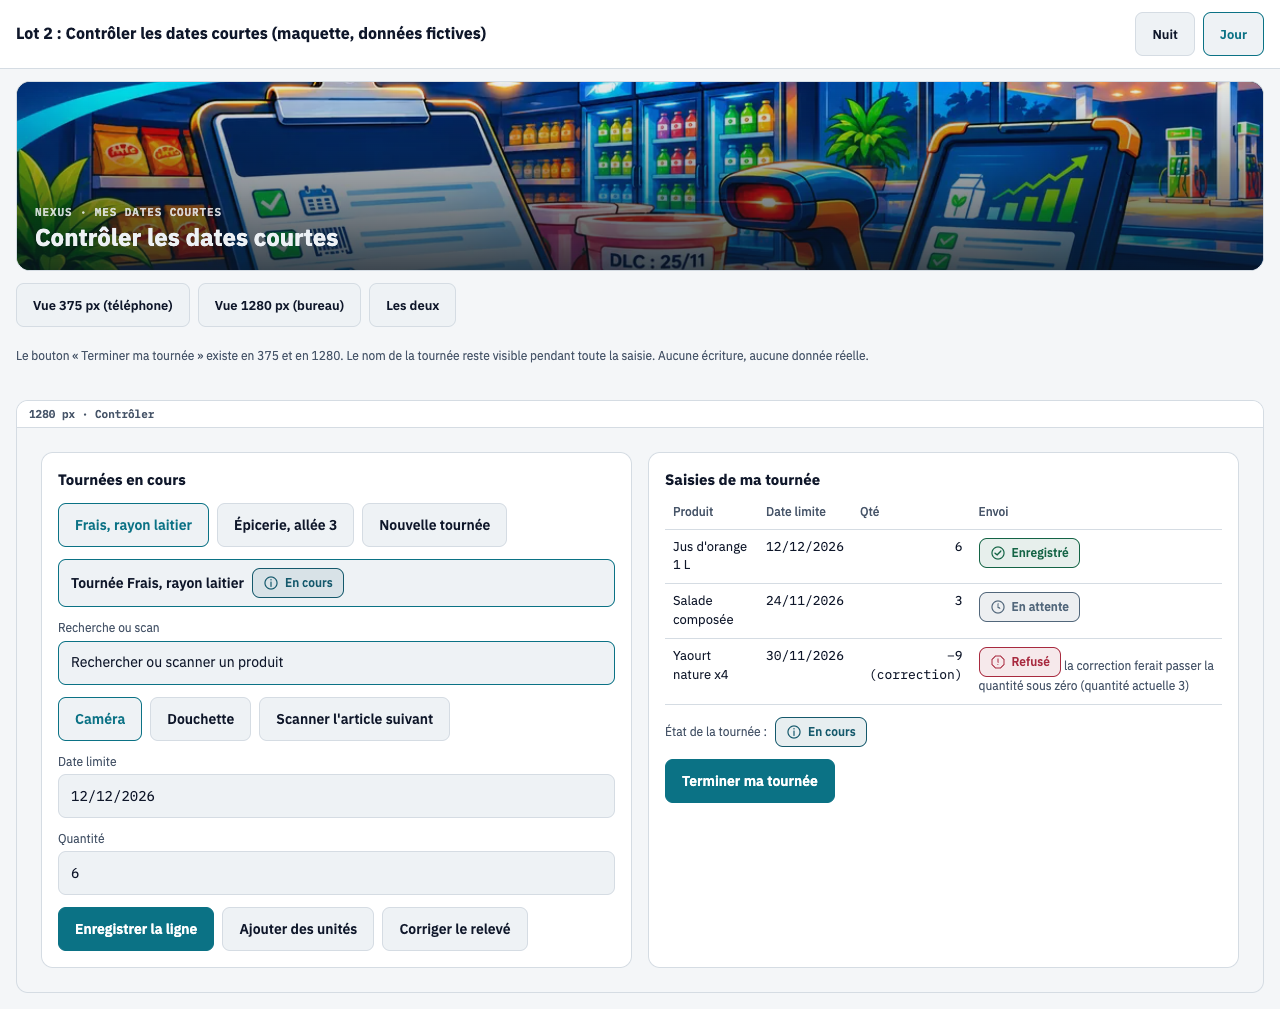
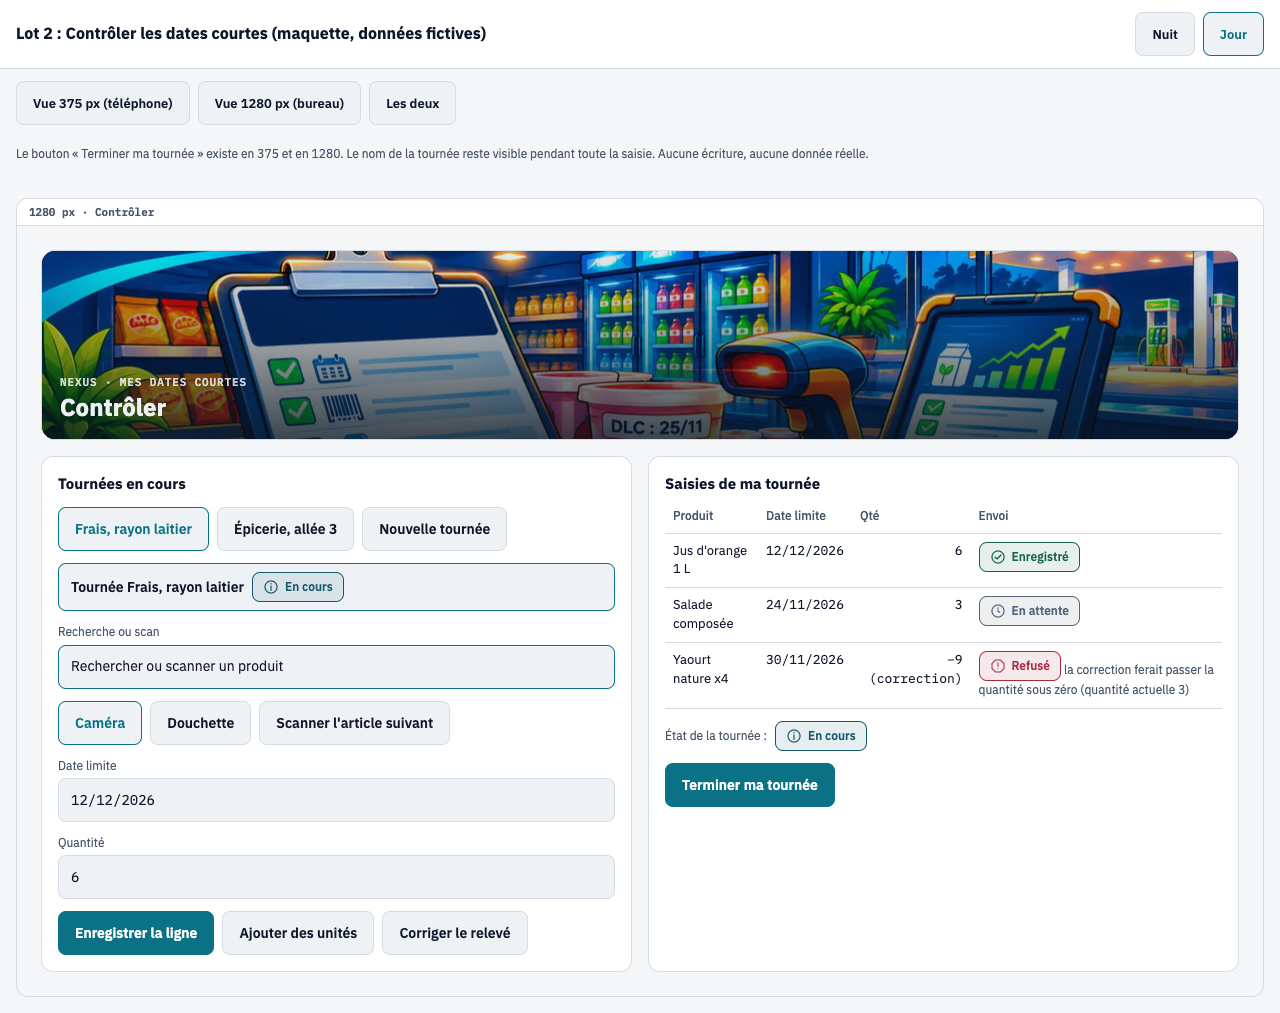
Dates courtes : bannière dans chaque cadre d'écran, saisies empilées à 375 (lot 2)

diff --git a/outils/maquettes/dates-courtes/lot-5-prevention-pertes.html b/outils/maquettes/dates-courtes/lot-5-prevention-pertes.html
@@ -5,12 +5,10 @@
 <script src="../../../nexus-badge-etat.js"></script><script src="../../../nexus-icones.js"></script>
 <link rel="stylesheet" href="maquettes.css"></head><body>
 <div class="bandeau"><h1>Lot 5 : Prévention des pertes (maquette, chiffres fictifs)</h1><div class="reglage" role="group" aria-label="Thème"></div></div>
-<header class="header hero"><picture><source media="(max-width:599px)" srcset="../../../assets/telephone/dates-courtes-telephone.webp"><img class="entete" src="../../../assets/dates-courtes/dates-courtes-banniere-1200.webp" srcset="../../../assets/dates-courtes/dates-courtes-banniere-800.webp 800w, ../../../assets/dates-courtes/dates-courtes-banniere-1200.webp 1200w, ../../../assets/dates-courtes/dates-courtes-banniere-1600.webp 1600w" sizes="(min-width:1100px) 1100px, 100vw" width="1600" height="533" alt=""></picture><div class="header-texte"><div class="eyebrow">NEXUS · Mes dates courtes</div><h2 class="title">Prévention des pertes</h2></div></header>
 <nav class="liens" aria-label="Largeur"><a href="lot-5-prevention-pertes.html?largeur=375">Vue 375 px (téléphone)</a><a href="lot-5-prevention-pertes.html?largeur=1280">Vue 1280 px (bureau)</a><a href="lot-5-prevention-pertes.html">Les deux</a></nav>
 <p class="note">Lecture manager, gérant, créateur. Pas d'accès vacataire ni pompiste. Une station par profil, aucune comparaison multisite. Les montants A, B, C et D ne s'additionnent jamais. Deux états séparés : état normal (montants) et « Nature fiscale non déterminée » (quantités seules, aucun montant).</p>
 <div class="vues">
-<section class="cadre m"><h2>375 px · État normal (montants)</h2><div class="ecran">
- <div class="tete"><div class="tuile">icône à venir</div><div><h3 style="margin:0">Prévention des pertes</h3><div class="mid">Station fictive · 7 jours ou moins</div></div></div>
+<section class="cadre m"><h2>375 px · État normal (montants)</h2><div class="ecran"><header class="header hero"><picture><source media="(max-width:599px)" srcset="../../../assets/telephone/dates-courtes-telephone.webp"><img class="entete" src="../../../assets/dates-courtes/dates-courtes-banniere-1200.webp" srcset="../../../assets/dates-courtes/dates-courtes-banniere-800.webp 800w, ../../../assets/dates-courtes/dates-courtes-banniere-1200.webp 1200w, ../../../assets/dates-courtes/dates-courtes-banniere-1600.webp 1600w" sizes="(min-width:1100px) 1100px, 100vw" width="1600" height="533" alt=""></picture><div class="header-texte"><div class="eyebrow">NEXUS · Mes dates courtes</div><h2 class="title">Prévention des pertes</h2><p class="sous">Station fictive · 7 jours ou moins</p></div></header>
  <div class="carte"><h3>A · Valeur à risque</h3><div class="montant">1 240 € HT</div>
   <div class="rang"><span data-etat="gravite:a-verifier">Dont non certifiées : 310 €</span></div>
   <div class="mid" style="margin-top:8px">Dernier relevé retenu : 21/11/2026 à 18 h 12, relevé il y a 1 jour (7 jours ou moins : courante).</div>
@@ -20,7 +18,7 @@
   <div class="mid" style="margin-top:8px">Période : 01/11/2026 au 21/11/2026. Prix figé à la comptabilisation de chaque démarque ; « prix reconstitué » pour les démarques antérieures au lot 5.</div>
   <div class="rang"><span data-etat="gravite:a-verifier">1 ligne : Prix d'achat absent</span><div class="mid">Cette ligne n'a pas de montant et n'entre pas dans B.</div></div></div>
 </div></section>
-<section class="cadre m"><h2>375 px · Nature fiscale non déterminée (quantités seules)</h2><div class="ecran">
+<section class="cadre m"><h2>375 px · Nature fiscale non déterminée (quantités seules)</h2><div class="ecran"><header class="header hero"><picture><source media="(max-width:599px)" srcset="../../../assets/telephone/dates-courtes-telephone.webp"><img class="entete" src="../../../assets/dates-courtes/dates-courtes-banniere-1200.webp" srcset="../../../assets/dates-courtes/dates-courtes-banniere-800.webp 800w, ../../../assets/dates-courtes/dates-courtes-banniere-1200.webp 1200w, ../../../assets/dates-courtes/dates-courtes-banniere-1600.webp 1600w" sizes="(min-width:1100px) 1100px, 100vw" width="1600" height="533" alt=""></picture><div class="header-texte"><div class="eyebrow">NEXUS · Mes dates courtes</div><h2 class="title">Prévention des pertes</h2></div></header>
  <div class="carte"><h3>A · Valeur à risque</h3><div class="montant">31 unités</div>
   <div class="rang"><span data-etat="gravite:information">Nature fiscale non déterminée</span></div>
   <div class="mid" style="margin-top:8px">Aucun montant tant que la nature fiscale n'est pas déterminée. Dont non certifiées : 9 unités.</div>
@@ -29,13 +27,13 @@
   <div class="rang"><span data-etat="gravite:information">Nature fiscale non déterminée</span></div>
   <div class="mid" style="margin-top:8px">Aucun montant dans cet état. Période : 01/11/2026 au 21/11/2026.</div></div>
 </div></section>
-<section class="cadre m"><h2>375 px · Valeurs non calculables</h2><div class="ecran">
+<section class="cadre m"><h2>375 px · Valeurs non calculables</h2><div class="ecran"><header class="header hero"><picture><source media="(max-width:599px)" srcset="../../../assets/telephone/dates-courtes-telephone.webp"><img class="entete" src="../../../assets/dates-courtes/dates-courtes-banniere-1200.webp" srcset="../../../assets/dates-courtes/dates-courtes-banniere-800.webp 800w, ../../../assets/dates-courtes/dates-courtes-banniere-1200.webp 1200w, ../../../assets/dates-courtes/dates-courtes-banniere-1600.webp 1600w" sizes="(min-width:1100px) 1100px, 100vw" width="1600" height="533" alt=""></picture><div class="header-texte"><div class="eyebrow">NEXUS · Mes dates courtes</div><h2 class="title">Prévention des pertes</h2></div></header>
  <div class="carte"><h3>C · Valeur d'achat des unités écoulées avant échéance</h3><div class="montant indispo">Calcul indisponible</div>
   <div class="mid" style="margin-top:8px">Il manque l'historique de ventes sur la fenêtre de 30 jours.</div></div>
  <div class="carte"><h3>D · Pertes évitées estimées</h3><div class="montant indispo">Calcul indisponible</div>
   <div class="mid" style="margin-top:8px">L'étiquette « Estimation » apparaît seulement quand un montant est calculé.</div></div>
 </div></section>
-<section class="cadre d"><h2>1280 px · État normal (montants)</h2><div class="ecran">
+<section class="cadre d"><h2>1280 px · État normal (montants)</h2><div class="ecran"><header class="header hero"><picture><source media="(max-width:599px)" srcset="../../../assets/telephone/dates-courtes-telephone.webp"><img class="entete" src="../../../assets/dates-courtes/dates-courtes-banniere-1200.webp" srcset="../../../assets/dates-courtes/dates-courtes-banniere-800.webp 800w, ../../../assets/dates-courtes/dates-courtes-banniere-1200.webp 1200w, ../../../assets/dates-courtes/dates-courtes-banniere-1600.webp 1600w" sizes="(min-width:1100px) 1100px, 100vw" width="1600" height="533" alt=""></picture><div class="header-texte"><div class="eyebrow">NEXUS · Mes dates courtes</div><h2 class="title">Prévention des pertes</h2></div></header>
  <div class="carte"><h3>A · Valeur à risque</h3><div class="montant">1 240 € HT</div>
   <div class="rang"><span data-etat="gravite:a-verifier">Dont non certifiées : 310 €</span></div>
   <div class="mid" style="margin-top:8px">Dernier relevé retenu : 21/11/2026 à 18 h 12, relevé il y a 1 jour (7 jours ou moins : courante).</div>
@@ -55,7 +53,7 @@
  <div class="carte"><h3>D · Pertes évitées estimées</h3><div class="montant indispo">Calcul indisponible</div>
   <div class="mid" style="margin-top:8px">L'étiquette « Estimation » apparaît seulement quand un montant est calculé.</div></div>
 </div></section>
-<section class="cadre d"><h2>1280 px · Nature fiscale non déterminée (quantités seules)</h2><div class="ecran">
+<section class="cadre d"><h2>1280 px · Nature fiscale non déterminée (quantités seules)</h2><div class="ecran"><header class="header hero"><picture><source media="(max-width:599px)" srcset="../../../assets/telephone/dates-courtes-telephone.webp"><img class="entete" src="../../../assets/dates-courtes/dates-courtes-banniere-1200.webp" srcset="../../../assets/dates-courtes/dates-courtes-banniere-800.webp 800w, ../../../assets/dates-courtes/dates-courtes-banniere-1200.webp 1200w, ../../../assets/dates-courtes/dates-courtes-banniere-1600.webp 1600w" sizes="(min-width:1100px) 1100px, 100vw" width="1600" height="533" alt=""></picture><div class="header-texte"><div class="eyebrow">NEXUS · Mes dates courtes</div><h2 class="title">Prévention des pertes</h2></div></header>
  <div class="carte"><h3>A · Valeur à risque</h3><div class="montant">31 unités</div>
   <div class="rang"><span data-etat="gravite:information">Nature fiscale non déterminée</span></div>
   <div class="mid" style="margin-top:8px">Aucun montant tant que la nature fiscale n'est pas déterminée. Dont non certifiées : 9 unités.</div>

diff --git a/outils/maquettes/dates-courtes/lot-2-saisie.html b/outils/maquettes/dates-courtes/lot-2-saisie.html
@@ -5,13 +5,11 @@
 <script src="../../../nexus-badge-etat.js"></script><script src="../../../nexus-icones.js"></script>
 <link rel="stylesheet" href="maquettes.css"></head><body>
 <div class="bandeau"><h1>Lot 2 : Contrôler les dates courtes (maquette, données fictives)</h1><div class="reglage" role="group" aria-label="Thème"></div></div>
-<header class="header hero"><picture><source media="(max-width:599px)" srcset="../../../assets/telephone/dates-courtes-telephone.webp"><img class="entete" src="../../../assets/dates-courtes/dates-courtes-banniere-1200.webp" srcset="../../../assets/dates-courtes/dates-courtes-banniere-800.webp 800w, ../../../assets/dates-courtes/dates-courtes-banniere-1200.webp 1200w, ../../../assets/dates-courtes/dates-courtes-banniere-1600.webp 1600w" sizes="(min-width:1100px) 1100px, 100vw" width="1600" height="533" alt=""></picture><div class="header-texte"><div class="eyebrow">NEXUS · Mes dates courtes</div><h2 class="title">Contrôler les dates courtes</h2></div></header>
 <nav class="liens" aria-label="Largeur"><a href="lot-2-saisie.html?largeur=375">Vue 375 px (téléphone)</a><a href="lot-2-saisie.html?largeur=1280">Vue 1280 px (bureau)</a><a href="lot-2-saisie.html">Les deux</a></nav>
 <p class="note">Le bouton « Terminer ma tournée » existe en 375 et en 1280. Le nom de la tournée reste visible pendant toute la saisie. Aucune écriture, aucune donnée réelle.</p>
 <div class="vues">
 
-<section class="cadre m"><h2>375 px · Choix de la tournée</h2><div class="ecran">
- <div class="tete"><div class="tuile">icône à venir</div><div><h3 style="margin:0">Contrôler</h3><div class="mid">Mes tournées en cours</div></div></div>
+<section class="cadre m"><h2>375 px · Choix de la tournée</h2><div class="ecran"><header class="header hero"><picture><source media="(max-width:599px)" srcset="../../../assets/telephone/dates-courtes-telephone.webp"><img class="entete" src="../../../assets/dates-courtes/dates-courtes-banniere-1200.webp" srcset="../../../assets/dates-courtes/dates-courtes-banniere-800.webp 800w, ../../../assets/dates-courtes/dates-courtes-banniere-1200.webp 1200w, ../../../assets/dates-courtes/dates-courtes-banniere-1600.webp 1600w" sizes="(min-width:1100px) 1100px, 100vw" width="1600" height="533" alt=""></picture><div class="header-texte"><div class="eyebrow">NEXUS · Mes dates courtes</div><h2 class="title">Contrôler</h2><p class="sous">Mes tournées en cours</p></div></header>
  <div class="carte"><h3>Tournée Frais, rayon laitier</h3><div class="mid">Commencée à 8 h 40 · 12 saisies</div>
   <div class="rang"><span data-etat="gravite:information">En cours</span><span data-etat="traitement:en-attente">2 en attente d'envoi</span></div>
   <div class="rang"><span class="bouton pri">Reprendre cette tournée</span></div></div>
@@ -21,7 +19,7 @@
  <div class="rang"><span class="bouton">Commencer une nouvelle tournée</span></div>
 </div></section>
 
-<section class="cadre m"><h2>375 px · Saisie d'une ligne</h2><div class="ecran">
+<section class="cadre m"><h2>375 px · Saisie d'une ligne</h2><div class="ecran"><header class="header hero"><picture><source media="(max-width:599px)" srcset="../../../assets/telephone/dates-courtes-telephone.webp"><img class="entete" src="../../../assets/dates-courtes/dates-courtes-banniere-1200.webp" srcset="../../../assets/dates-courtes/dates-courtes-banniere-800.webp 800w, ../../../assets/dates-courtes/dates-courtes-banniere-1200.webp 1200w, ../../../assets/dates-courtes/dates-courtes-banniere-1600.webp 1600w" sizes="(min-width:1100px) 1100px, 100vw" width="1600" height="533" alt=""></picture><div class="header-texte"><div class="eyebrow">NEXUS · Mes dates courtes</div><h2 class="title">Contrôler</h2></div></header>
  <div class="tournee">Tournée Frais, rayon laitier <span data-etat="gravite:information">En cours</span></div>
  <div class="carte"><div class="entree focus">Rechercher ou scanner un produit</div>
   <div class="rang"><span class="bouton actif">Caméra</span><span class="bouton">Douchette</span><span class="mid">Réglage mémorisé sur cet appareil</span></div>
@@ -39,22 +37,22 @@
   <div class="mid" style="margin-top:8px">Ajouter : la quantité saisie s'additionne à la ligne. Corriger : la quantité saisie remplace la ligne.</div></div>
 </div></section>
 
-<section class="cadre m"><h2>375 px · Douchette et fin de tournée</h2><div class="ecran">
+<section class="cadre m"><h2>375 px · Douchette et fin de tournée</h2><div class="ecran"><header class="header hero"><picture><source media="(max-width:599px)" srcset="../../../assets/telephone/dates-courtes-telephone.webp"><img class="entete" src="../../../assets/dates-courtes/dates-courtes-banniere-1200.webp" srcset="../../../assets/dates-courtes/dates-courtes-banniere-800.webp 800w, ../../../assets/dates-courtes/dates-courtes-banniere-1200.webp 1200w, ../../../assets/dates-courtes/dates-courtes-banniere-1600.webp 1600w" sizes="(min-width:1100px) 1100px, 100vw" width="1600" height="533" alt=""></picture><div class="header-texte"><div class="eyebrow">NEXUS · Mes dates courtes</div><h2 class="title">Contrôler</h2></div></header>
  <div class="tournee">Tournée Frais, rayon laitier <span data-etat="gravite:information">En cours</span></div>
  <div class="carte"><h3>Code reconnu</h3><div class="mid">Yaourt nature x4 · douchette Bluetooth</div>
   <div class="champ"><label>Date limite à saisir</label><div class="entree mono focus"></div></div>
   <div class="rang"><span class="bouton">Revenir à la caméra</span></div></div>
  <div class="carte"><h3>Saisies de ma tournée</h3>
-  <table><thead><tr><th>Produit</th><th>Qté</th><th>Envoi</th></tr></thead><tbody>
-   <tr><td>Jus d'orange 1 L<div class="mid mono">12/12/2026</div></td><td class="n">6</td><td><span data-etat="gravite:conforme">Enregistré</span></td></tr>
-   <tr><td>Salade composée<div class="mid mono">24/11/2026</div></td><td class="n">3</td><td><span data-etat="traitement:en-attente">En attente</span></td></tr>
-   <tr><td>Yaourt nature x4<div class="mid mono">30/11/2026</div></td><td class="n">−9 (correction)</td><td><span data-etat="gravite:critique">Refusé</span><div class="mid">Raison : la correction ferait passer la quantité sous zéro (quantité actuelle 3).</div></td></tr>
-  </tbody></table>
+  <ul class="lignes">
+   <li><div>Jus d'orange 1 L<div class="mid mono">12/12/2026</div></div><div class="rang"><span class="mono">6</span><span data-etat="gravite:conforme">Enregistré</span></div></li>
+   <li><div>Salade composée<div class="mid mono">24/11/2026</div></div><div class="rang"><span class="mono">3</span><span data-etat="traitement:en-attente">En attente</span></div></li>
+   <li><div>Yaourt nature x4<div class="mid mono">30/11/2026</div></div><div class="rang"><span class="mono">−9 (correction)</span><span data-etat="gravite:critique">Refusé</span></div><div class="mid">Raison : la correction ferait passer la quantité sous zéro (quantité actuelle 3).</div></li>
+  </ul>
   <div class="rang"><span class="mid">État de la tournée :</span><span data-etat="gravite:information">En cours</span></div>
   <div class="rang"><span class="bouton pri">Terminer ma tournée</span></div></div>
 </div></section>
 
-<section class="cadre d"><h2>1280 px · Contrôler</h2><div class="ecran">
+<section class="cadre d"><h2>1280 px · Contrôler</h2><div class="ecran"><header class="header hero"><picture><source media="(max-width:599px)" srcset="../../../assets/telephone/dates-courtes-telephone.webp"><img class="entete" src="../../../assets/dates-courtes/dates-courtes-banniere-1200.webp" srcset="../../../assets/dates-courtes/dates-courtes-banniere-800.webp 800w, ../../../assets/dates-courtes/dates-courtes-banniere-1200.webp 1200w, ../../../assets/dates-courtes/dates-courtes-banniere-1600.webp 1600w" sizes="(min-width:1100px) 1100px, 100vw" width="1600" height="533" alt=""></picture><div class="header-texte"><div class="eyebrow">NEXUS · Mes dates courtes</div><h2 class="title">Contrôler</h2></div></header>
  <div class="carte"><h3>Tournées en cours</h3>
   <div class="rang"><span class="bouton actif">Frais, rayon laitier</span><span class="bouton">Épicerie, allée 3</span><span class="bouton">Nouvelle tournée</span></div>
   <div class="tournee" style="margin-top:12px">Tournée Frais, rayon laitier <span data-etat="gravite:information">En cours</span></div>

diff --git a/outils/maquettes/dates-courtes/maquettes.css b/outils/maquettes/dates-courtes/maquettes.css
@@ -55,3 +55,8 @@ td.n{font-family:var(--mono);text-align:right}
 .header-texte{position:relative;z-index:1;padding:18px;width:100%;color:#EDF1F5}
 .header-texte .eyebrow{font:600 11px var(--mono);letter-spacing:.08em;text-transform:uppercase;opacity:.85}
 .header-texte .title{margin:4px 0 0;font:700 24px/1.2 var(--sans)}
+.ecran>.header{margin:0;grid-column:1/-1}
+.header-texte .sous{margin:4px 0 0;font-size:12px;opacity:.9}
+.lignes{list-style:none;margin:0;padding:0}
+.lignes li{padding:8px 0;border-bottom:1px solid var(--hairline)}
+.lignes .rang{margin-top:4px}

diff --git a/docs/dates-courtes/maquettes-captures/compte-rendu-banniere.md b/docs/dates-courtes/maquettes-captures/compte-rendu-banniere.md
@@ -1,5 +1,7 @@
 # Compte rendu : bannière Dates courtes dans les maquettes lots 2 et 5
 
+Correction 7081520147 : la bannière est en haut de chaque cadre d'écran (375 et 1280, lots 2 et 5), à la place du bloc identité (tuile « icône à venir » et titre) ; le bandeau de la page ne garde que son titre de document. Lot 2 à 375 : « Saisies de ma tournée » passe en lignes empilées (produit et date, puis quantité et état, puis raison), sans tableau horizontal, badges non rognés ; le tableau reste à 1280.
+
 - Référentiel : NEXUS-REFERENTIEL-CONCEPTION v1.0 (skill nexus-design-experience).
 - Composants réutilisés : en-tête `header.header.hero` de NEXUS-Produits-v1.html (picture, source téléphone 599 px, img.entete 800w/1200w/1600w, `sizes`, 1600x533, alt vide car décorative), eyebrow, thème jour/nuit existant.
 - Composant nouveau : aucun côté produit. CSS d'en-tête ajouté à `maquettes.css` seulement (maquettes).
